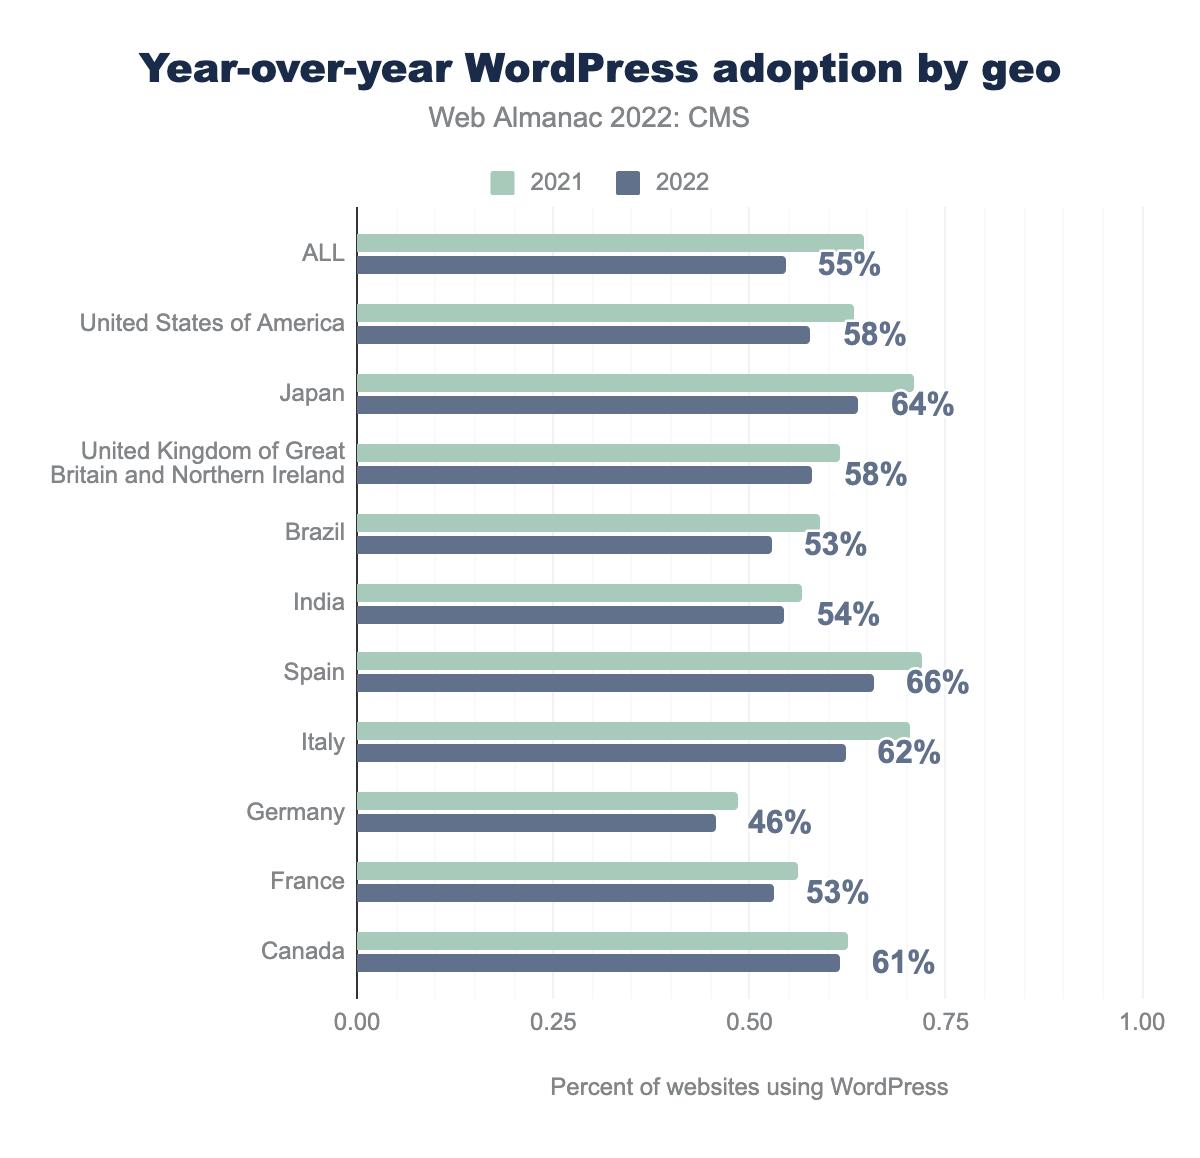
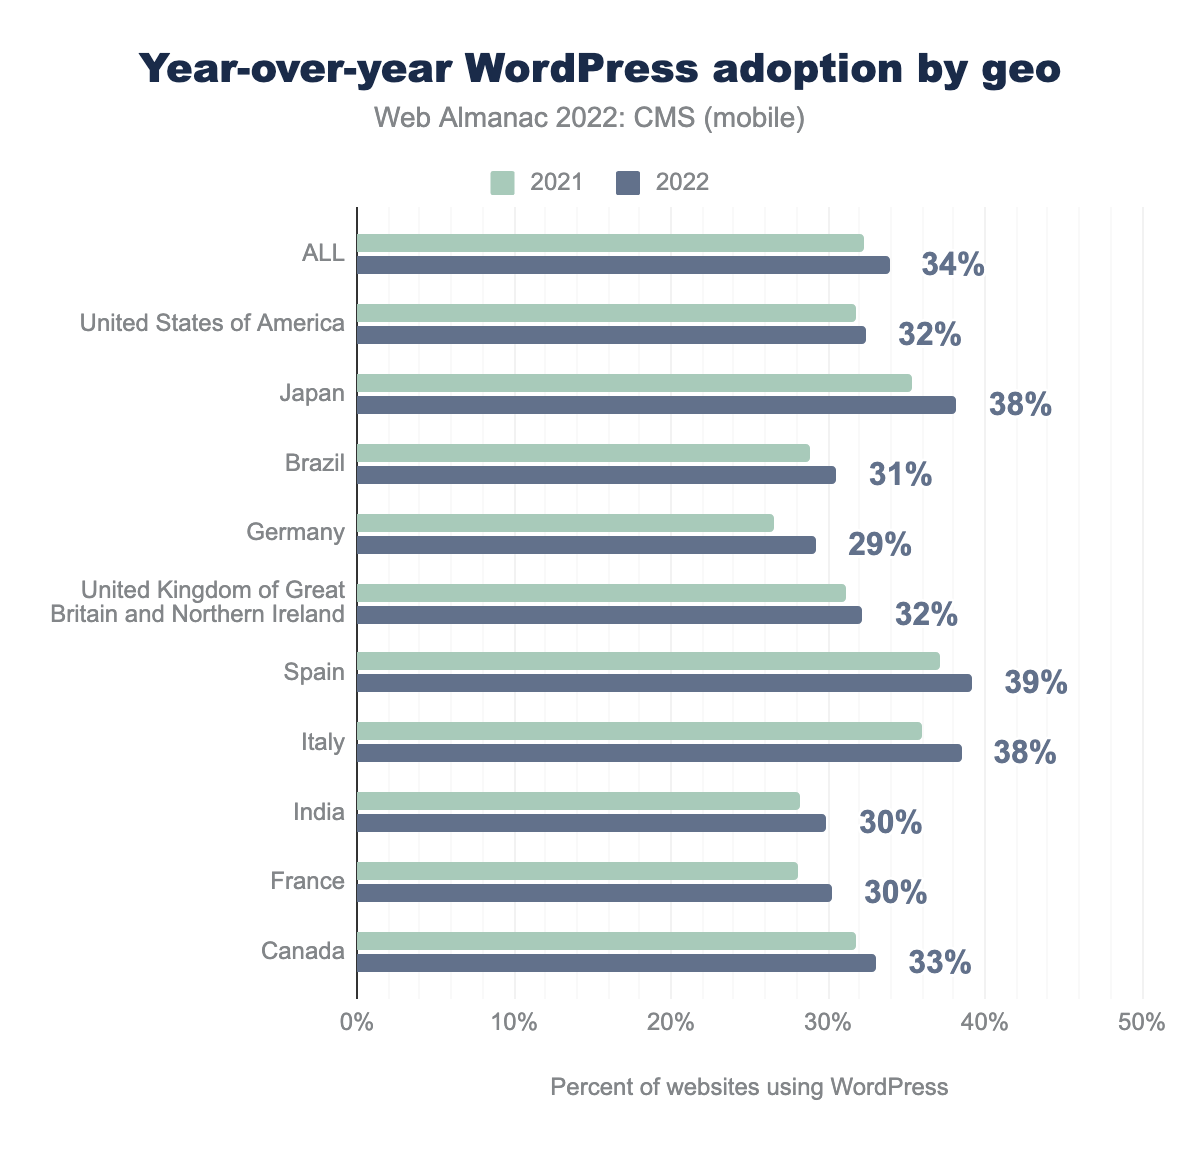
Update figures

diff --git a/src/content/en/2022/cms.md b/src/content/en/2022/cms.md
@@ -370,14 +370,14 @@ We also used HTTP Archive data to analyze the weight of resources used across di
 {{ figure_markup(
   image="median-cms-page-weight.png",
   caption="Media resource weights by CMS.",
-  description="Column chart showing the median total page weight of each of the top five most adopted CMSs, for each device.",
+  description="Column chart showing the median total page weight of each of the top five most adopted CMSs, for each device. For WordPress it's 2,559 KB on desktop and 2,314 KB on mobile. For Drupal it's 2,351 KB and 2,146 KB respectively, KB for Joomla it's 2,799 KB and 2,495, KB for Wix it's 3,172 KB and 2,158, KB and finally for Squarespace it's 3,462 KB and 3,577 KB.",
   chart_url="https://docs.google.com/spreadsheets/d/e/2PACX-1vQpmp9GvO62PKJmEC_yxnHVx4zuqKwYh68tquM5yZCCrOlZETqbLhu3iuSarRq2n4bW7dRbUoSB8NO2/pubchart?oid=1764509612&format=interactive",
   sheets_gid="1736220112",
   sql_file="resource_weights.sql"
   )
 }}
 
-Most of the top five CMSs deliver a median page weight of around ~2 MB, except Squarespace which delivers a larger ~3.5 MB. All except Joomla showed increases in page weight over 2021 data.
+Most of the top five CMSs deliver a median page weight of around ~2 MB, except Squarespace which delivers a larger ~3.5 MB. All except Joomla showed [increases in page weight over 2021 data](../2021/cms#page-weight-breakdown).
 
 {{ figure_markup(
   image="distribution-cms-page-weight.png",
@@ -438,7 +438,7 @@ WordPress introduced support for WebP in 5.8, released in June of 2021 and is <a
 {{ figure_markup(
   image="median-size-js.png",
   caption="Median JavaScript resources by CMS.",
-  description="Column chart showing the median weight of JavaScript resources downloaded in each of the top five most adopted CMSs, for each device.",
+  description="Column chart showing the median weight of JavaScript resources downloaded in each of the top five most adopted CMSs, for each device. In all cases the desktop and mobile sizes are identical. For WordPress it's 521 KB on both desktop and mobile, for Drupal it's 416 KB for both, for Joomla it's 452 KB, for Wix it's 1,318 KB, and finally for Squarespace it's 997 KB for both.",
   chart_url="https://docs.google.com/spreadsheets/d/e/2PACX-1vQpmp9GvO62PKJmEC_yxnHVx4zuqKwYh68tquM5yZCCrOlZETqbLhu3iuSarRq2n4bW7dRbUoSB8NO2/pubchart?oid=1169405351&format=interactive",
   sheets_gid="1736220112",
   sql_file="resource_weights.sql"
@@ -452,7 +452,7 @@ The top five CMSs all deliver pages that rely on JavaScript, with Drupal deliver
 {{ figure_markup(
   image="median-size-html.png",
   caption="Median HTML size by CMS.",
-  description="Column chart showing the median weight of the HTML resource downloaded in each of the top five most adopted CMSs, for each device.",
+  description="Column chart showing the median weight of the HTML resource downloaded in each of the top five most adopted CMSs, for each device. In most cases the desktop and mobile sizes are very similar. For WordPress it's 40 KB on desktop and 37 KB on mobile, for Drupal it's 23 KB for both, for Joomla it's 26 KB and 22 KB, for Wix it's 123 KB on desktop and 118 KB on mobile, and finally for Squarespace it's 27 KB for both.",
   chart_url="https://docs.google.com/spreadsheets/d/e/2PACX-1vQpmp9GvO62PKJmEC_yxnHVx4zuqKwYh68tquM5yZCCrOlZETqbLhu3iuSarRq2n4bW7dRbUoSB8NO2/pubchart?oid=1713320070&format=interactive",
   sheets_gid="1736220112",
   sql_file="resource_weights.sql"
@@ -466,7 +466,7 @@ Examining the HTML document sizes, we can see that most of the top CMSs deliver 
 {{ figure_markup(
   image="median-size-css.png",
   caption="Median CSS size by CMS.",
-  description="Column chart showing the median weight of CSS resources downloaded in each of the top five most adopted CMSs, for each device.",
+  description="Column chart showing the median weight of CSS resources downloaded in each of the top five most adopted CMSs, for each device. In most cases (apart from Wixs) the desktop and mobile sizes are very similar. For WordPress it's 117 KB on desktop and 115 KB on mobile, for Drupal it's 68 KB and 66 KB respectively, for Joomla it's 86 KB and 83 KB, for Wix it's 18 KB on desktop but only 9 KB on mobile, and finally for Squarespace it's 89 KB for both.",
   chart_url="https://docs.google.com/spreadsheets/d/e/2PACX-1vQpmp9GvO62PKJmEC_yxnHVx4zuqKwYh68tquM5yZCCrOlZETqbLhu3iuSarRq2n4bW7dRbUoSB8NO2/pubchart?oid=176229983&format=interactive",
   sheets_gid="1736220112",
   sql_file="resource_weights.sql"
@@ -480,7 +480,7 @@ Next, we examine the use of explicit CSS resources that are downloaded. Here we 
 {{ figure_markup(
   image="median-size-font.png",
   caption="Median font size by CMS.",
-  description="Column chart showing the median weight of fonts resources downloaded in each of the top five most adopted CMSs, for each device.",
+  description="Column chart showing the median weight of fonts resources downloaded in each of the top five most adopted CMSs, for each device. In all cases the desktop and mobile sizes are the same. For WordPress it's 137 KB, for Drupal it's 92 KB, for Joomla it's 82 KB, for Wix it's 148 KB, and finally for Squarespace it's 202 KB.",
   chart_url="https://docs.google.com/spreadsheets/d/e/2PACX-1vQpmp9GvO62PKJmEC_yxnHVx4zuqKwYh68tquM5yZCCrOlZETqbLhu3iuSarRq2n4bW7dRbUoSB8NO2/pubchart?oid=1008146261&format=interactive",
   sheets_gid="1736220112",
   sql_file="resource_weights.sql"
@@ -507,8 +507,8 @@ First, we examined WordPress adoption by geography across all sites in our datas
 
 {{ figure_markup(
   image="wordpress-adoption-geo-yoy.png",
-  caption="WordPress adoption by geography year-over-year.",
-  description="Bar chart depicting the adoption of WordPress in each of the 10 geographies with the most websites.",
+  caption="WordPress adoption by geography year-over-year on mobile.",
+  description="Bar chart depicting the adoption of WordPress in each of the 10 geographies with the most websites. For all counties it's 32% on 2021 and 34% on 2022, for United States of America it's 32% for both, for Japan it's 35% and 38% respectively, for Brazil it's 29% and 31%, for Germany it's 27% and 29%, for United Kingdom of Great Britain and Northern Ireland it's 31% and 32%, for Spain it's 37% and 39%, for Italy it's 36% and 38%, for India it's 28% and 30%, for France it's also 28% and 30%, and finally for Canada it's 32% in 2021 and 33% in 2022.",
   chart_url="https://docs.google.com/spreadsheets/d/e/2PACX-1vQpmp9GvO62PKJmEC_yxnHVx4zuqKwYh68tquM5yZCCrOlZETqbLhu3iuSarRq2n4bW7dRbUoSB8NO2/pubchart?oid=442489769&format=interactive",
   sheets_gid="694875761",
   sql_file="cms_adoption_by_geo.sql",
@@ -517,7 +517,7 @@ First, we examined WordPress adoption by geography across all sites in our datas
   )
 }}
 
-According to our dataset, WordPress adoption is down across all geographies. Given the continued growth of WordPress overall and the uniformity of the percentage decrease, we're inclined to consider this a change in methodology or an issue with attribution. Next year's dataset may make this clearer.
+According to our dataset, WordPress adoption is growign significantly in all the tops geographies.
 
 ### Passing CWVs by geography
 
@@ -526,9 +526,10 @@ Next, we looked at the number of WordPress origins with passing Core Web Vitals,
 {{ figure_markup(
   image="wordpress-cwv-yoy.png",
   caption="WordPress core web vitals by geography year-over-year.",
-  description="Bar chart depicting the adoption of WordPress in each of the 10 geographies with the most websites.",
+  description="Bar chart depicting the adoption of WordPress in each of the 10 geographies with the most websites. For United States of America it's 28% for 2021 and 40% for 2022, for Japan it's 38% and 52% respectively, for India it's 8% and 15%, for Brazil it's 5% and 10%, for United Kingdom of Great Britain and Northern Ireland it's 33% and 44%, for Germany it's 35% and 48%, for Spain it's 21% and 33%, for Italy it's 19% and 29%, for France it's 26% and 39%, and finally for Canada it's 36% for 2021 and 49% for 2022. ",
   chart_url="https://docs.google.com/spreadsheets/d/e/2PACX-1vQpmp9GvO62PKJmEC_yxnHVx4zuqKwYh68tquM5yZCCrOlZETqbLhu3iuSarRq2n4bW7dRbUoSB8NO2/pubchart?oid=1279742547&format=interactive",
   sheets_gid="1742929367",
+  sql_file="core_web_vitals_by_geo.sql",
   width=600,
   height=579
   )
@@ -543,7 +544,7 @@ We explored how WordPress sites use external resources and separated them into r
 {{ figure_markup(
   image="median-wordpress-resources.png",
   caption="WordPress resources year-over-year.",
-  description="Column chart showing the percentile distributions of resources used for WordPress websites.",
+  description="Column chart showing the median resources used for WordPress websites. The number of resources are the same for desktop and mobile: 24 Plugins, 18 themes, and 12 wp-includes at the median.",
   chart_url="https://docs.google.com/spreadsheets/d/e/2PACX-1vQpmp9GvO62PKJmEC_yxnHVx4zuqKwYh68tquM5yZCCrOlZETqbLhu3iuSarRq2n4bW7dRbUoSB8NO2/pubchart?oid=660449132&format=interactive",
   sheets_gid="1922458949"
   )
